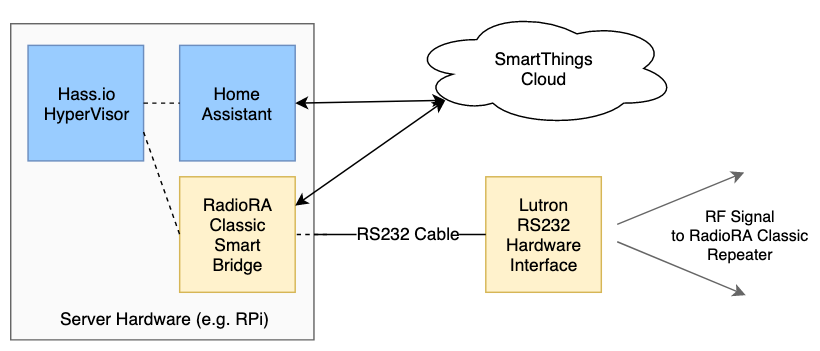
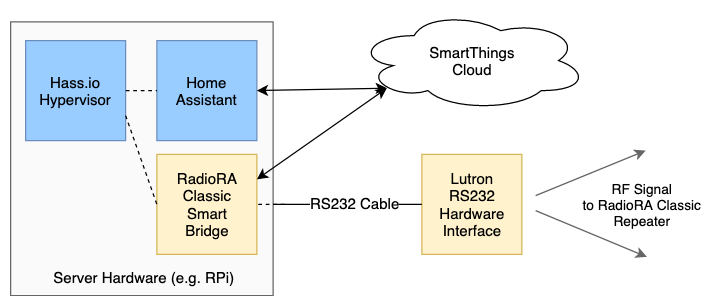
misc diagram updates

diff --git a/radiora-classic-bridge/README.md b/radiora-classic-bridge/README.md
@@ -10,7 +10,7 @@ This [Hass.io](https://www.home-assistant.io/hassio/) add-on integrates [Lutron'
 
 img/diagram.jpg)
 
-* server running Home Assistant's [Hass.io](https://www.home-assistant.io/hassio/)
+* server running Home Assistant's [Hass.io](https://www.home-assistant.io/hassio/) Hypervisor
 * Lutron RadioRA Classic RS232 hardware interface: [RA-RS232](http://www.lutron.com/TechnicalDocumentLibrary/044005c.pdf) or [Chronos System Bridge (RA-SBT-CHR)](http://www.lutron.com/TechnicalDocumentLibrary/044037b.pdf)
 * RS232 serial cable (e.g. USB male serial adapter or Pi GPIO pints with MAX3232 RS232 male adapter)
 
